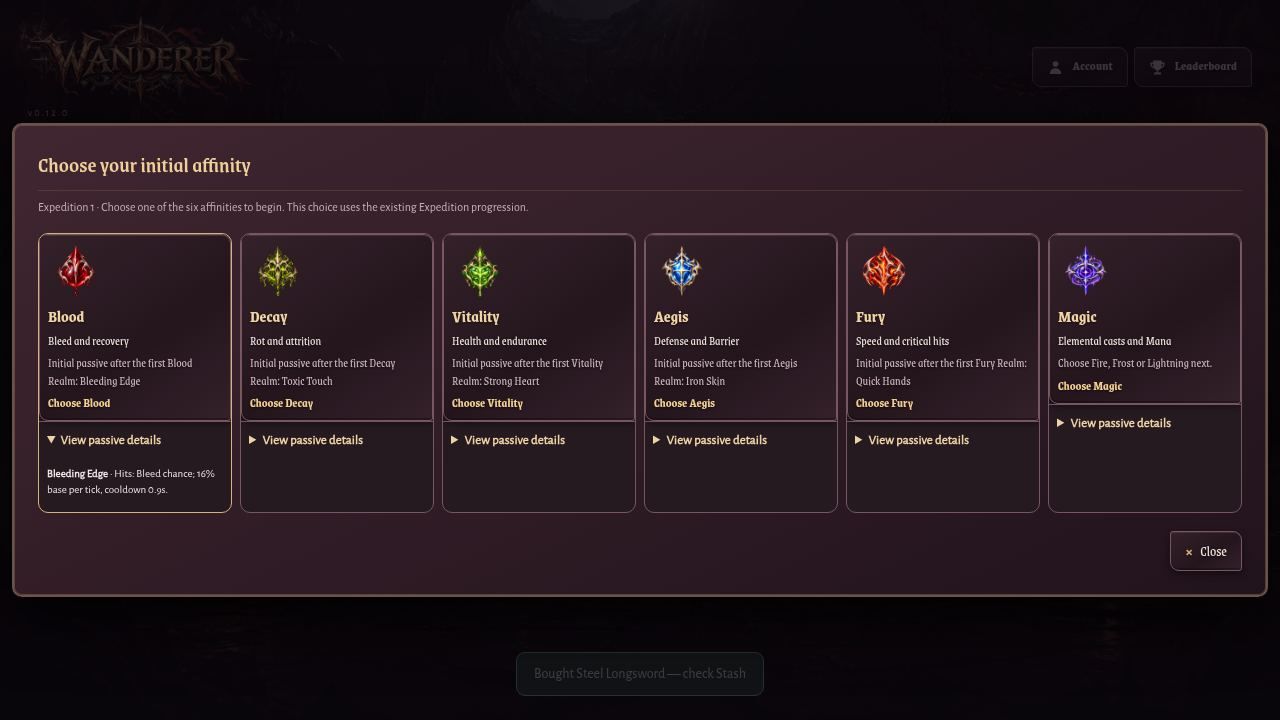
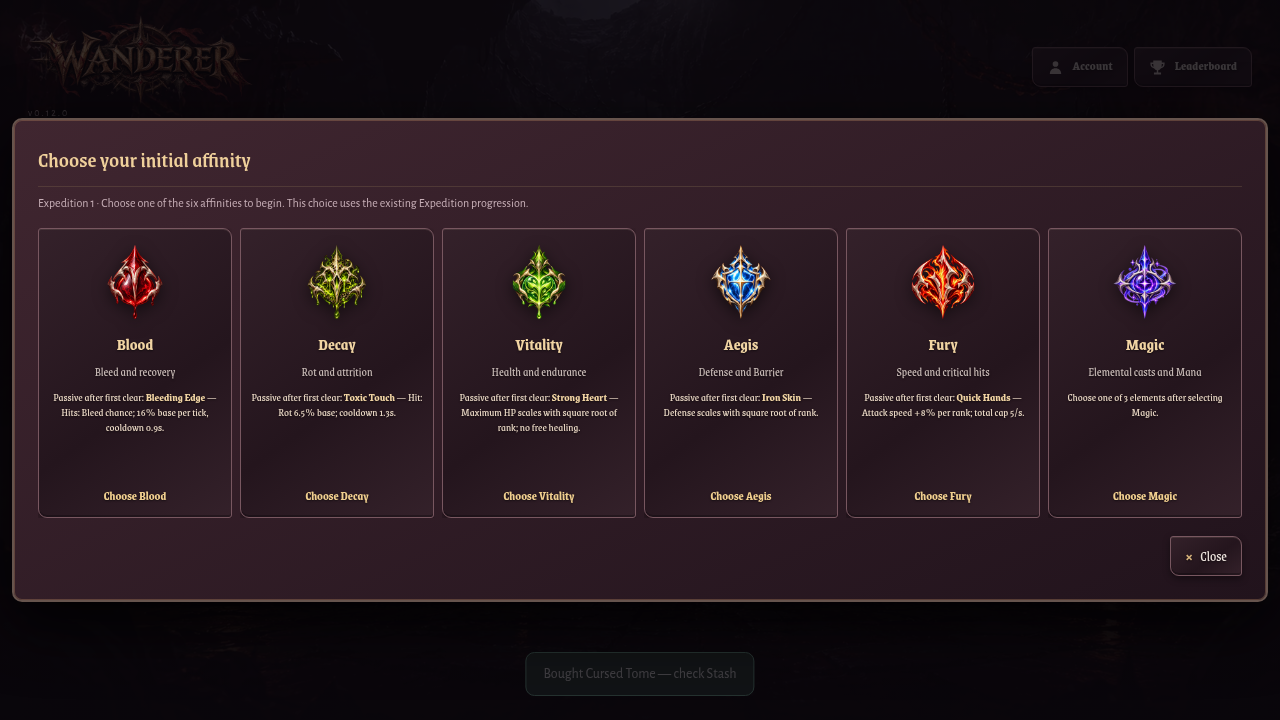
Polish affinity and Magic selection dialogs

diff --git a/online/v012-ui4.css b/online/v012-ui4.css
@@ -104,12 +104,20 @@
 .phase3IntegratedPreview :is(button.phase3Start,#phase2EnterRealm,#phase3OpenInitialAffinity,#phase5ExitResult,dialog button[data-confirm]):focus-visible{outline:2px solid #ebc790;outline-offset:3px}
 .phase3IntegratedPreview dialog.phase3InitialAffinityDialog{width:min(1380px,calc(100vw - 24px));max-width:none;max-height:90dvh;overflow:auto;padding:clamp(14px,2vw,24px)}
 .phase3IntegratedPreview .phase3InitialAffinityDialog .phase3AffinityChoices{display:grid;grid-template-columns:repeat(6,minmax(0,1fr));gap:8px}
-.phase3IntegratedPreview .phase3InitialAffinityDialog .phase3AffinityChoice{min-width:0}
-.phase3IntegratedPreview .phase3InitialAffinityDialog .phase3AffinityChoice>.phase1DraftCard{min-width:0;min-height:205px;padding:8px;gap:5px}
-.phase3IntegratedPreview .phase3InitialAffinityDialog .phase3AffinityChoice .affinityFamilyIcon{width:min(56px,100%);height:56px;object-fit:contain;flex:none}
+.phase3IntegratedPreview .phase3InitialAffinityDialog .phase3AffinityChoice{min-width:0;border:0;border-radius:0;background:transparent}
+.phase3IntegratedPreview .phase3InitialAffinityDialog .phase3AffinityChoice>.phase1DraftCard{display:flex;align-items:center;justify-content:flex-start;box-sizing:border-box;width:100%;height:290px;min-width:0;padding:12px 10px;gap:9px;text-align:center}
+.phase3IntegratedPreview .phase3InitialAffinityDialog .phase3AffinityChoice .affinityFamilyIcon{width:min(82px,100%);height:82px;object-fit:contain;flex:none;filter:drop-shadow(0 4px 8px #0009)}
 .phase3IntegratedPreview .phase3InitialAffinityDialog .phase3AffinityChoice strong{font-size:clamp(14px,1.25vw,19px)}
-.phase3IntegratedPreview .phase3InitialAffinityDialog .phase3AffinityChoice details{padding:4px 8px 8px}
-.phase3IntegratedPreview .phase3InitialAffinityDialog .phase3AffinityChoice details p{font-size:11px}
+.phase3IntegratedPreview .phase3AffinityIdentity{font-size:12px;color:var(--ui4-muted);line-height:1.3}
+.phase3IntegratedPreview .phase3AffinityPassive{flex:1;min-height:0;max-height:100%;overflow-y:auto;overscroll-behavior:contain;scrollbar-width:thin;font-size:11px;line-height:1.4;color:#e7d5c2}
+.phase3IntegratedPreview .phase3AffinityPassive b{color:#f1d4a3;font-weight:700}
+.phase3IntegratedPreview .phase3AffinityAction{margin-top:auto}
+.phase3IntegratedPreview dialog.phase3MagicElementDialog{width:min(760px,calc(100vw - 24px));max-width:none;padding:clamp(14px,2vw,24px)}
+.phase3IntegratedPreview .phase3MagicElementChoices{display:grid;grid-template-columns:repeat(3,minmax(0,1fr));gap:10px;margin-top:14px}
+.phase3IntegratedPreview .phase3MagicElementChoice{display:flex;align-items:center;box-sizing:border-box;width:100%;height:190px;min-width:0;padding:14px 10px;gap:10px;text-align:center}
+.phase3IntegratedPreview .phase3MagicElementChoice .magicChoiceIcon{width:76px;height:76px;filter:drop-shadow(0 4px 8px #0009)}
+.phase3IntegratedPreview .phase3MagicElementChoice strong{font-size:18px;color:#f1d4a3}
+.phase3IntegratedPreview .phase3MagicElementChoice span{font-size:12px;line-height:1.4;color:var(--ui4-muted)}
 .phase3IntegratedPreview .phase3AffinityPending{max-width:760px;margin:clamp(24px,8vh,100px) auto;text-align:center}
 .phase3IntegratedPreview .phase3AffinityPending h1{color:var(--gothic-ivory);font:500 clamp(26px,3vw,42px)/1.1 var(--font-display)}
 .phase3IntegratedPreview .phase3AffinityPending .primary{min-width:min(100%,280px)}
@@ -155,11 +163,18 @@
 @media(max-width:700px){
  .phase3IntegratedPreview dialog.phase3InitialAffinityDialog{width:calc(100vw - 16px);max-height:calc(100dvh - 20px);padding:12px}
  .phase3IntegratedPreview .phase3InitialAffinityDialog .phase3AffinityChoices{grid-template-columns:repeat(3,minmax(0,1fr));gap:6px}
- .phase3IntegratedPreview .phase3InitialAffinityDialog .phase3AffinityChoice>.phase1DraftCard{min-height:178px;padding:6px 4px;font-size:11px}
- .phase3IntegratedPreview .phase3InitialAffinityDialog .phase3AffinityChoice .affinityFamilyIcon{width:42px;height:42px}
+ .phase3IntegratedPreview .phase3InitialAffinityDialog .phase3AffinityChoice>.phase1DraftCard{height:264px;padding:8px 5px;gap:7px;font-size:11px}
+ .phase3IntegratedPreview .phase3InitialAffinityDialog .phase3AffinityChoice .affinityFamilyIcon{width:58px;height:58px}
  .phase3IntegratedPreview .phase3InitialAffinityDialog .phase3AffinityChoice strong{font-size:14px}
- .phase3IntegratedPreview .phase3InitialAffinityDialog .phase3AffinityAction{font-size:10px}
- .phase3IntegratedPreview .phase3InitialAffinityDialog .phase3AffinityChoice details summary{font-size:10px;min-height:30px}
+ .phase3IntegratedPreview .phase3AffinityIdentity{font-size:10px}
+ .phase3IntegratedPreview .phase3AffinityPassive{font-size:10px;line-height:1.3}
+ .phase3IntegratedPreview .phase3AffinityAction{font-size:10px}
+ .phase3IntegratedPreview dialog.phase3MagicElementDialog{width:calc(100vw - 16px);max-height:calc(100dvh - 20px);padding:12px}
+ .phase3IntegratedPreview .phase3MagicElementChoices{gap:6px;margin-top:10px}
+ .phase3IntegratedPreview .phase3MagicElementChoice{height:160px;padding:8px 4px;gap:7px;font-size:11px}
+ .phase3IntegratedPreview .phase3MagicElementChoice .magicChoiceIcon{width:54px;height:54px}
+ .phase3IntegratedPreview .phase3MagicElementChoice strong{font-size:14px}
+ .phase3IntegratedPreview .phase3MagicElementChoice span{font-size:10px;line-height:1.3}
 }
 @media(prefers-reduced-motion:reduce){
  .phase3IntegratedPreview button.primary:not(.tiny):active{transform:none}

diff --git a/index.html b/index.html
@@ -1260,14 +1260,34 @@ function phase3AffinityChoiceMarkup(family){
  const names=WandererV012Expedition.FAMILY_NAMES,starter=family==='magic'?['kindling','deep_winter','overcharge']:[WandererV012Buildcraft.initialId(family)];
  const passives=starter.map(id=>WandererV012Buildcraft.CATALOG.find(p=>p.id===id)).filter(Boolean);
  const identity={blood:'Bleed and recovery',decay:'Rot and attrition',vitality:'Health and endurance',aegis:'Defense and Barrier',fury:'Speed and critical hits',magic:'Elemental casts and Mana'}[family];
- return '<article class="phase3AffinityChoice"><button type="button" class="phase1DraftCard" data-phase2-initial="'+family+'">'+phase2FamilyIcon(family)+'<strong>'+esc(names[family])+'</strong><span class="small">'+identity+'</span><span class="small muted">'+(family==='magic'?'Choose Fire, Frost or Lightning next.':'Initial passive after the first '+esc(names[family])+' Realm: '+esc(passives[0]?.name||''))+'</span><b class="phase3AffinityAction">Choose '+esc(names[family])+'</b></button><details><summary>View passive details</summary>'+passives.map(p=>'<p><b>'+esc(p.name)+'</b> · '+esc(p.description.replace(/\bICD\b/gi,'cooldown'))+'</p>').join('')+'</details></article>';
+ const passiveText=passives.map(p=>'<b>'+esc(p.name)+'</b> — '+esc(p.description.replace(/\bICD\b/gi,'cooldown'))).join(' · ');
+ return '<article class="phase3AffinityChoice"><button type="button" class="phase1DraftCard" data-phase2-initial="'+family+'">'+phase2FamilyIcon(family)+'<strong>'+esc(names[family])+'</strong><span class="phase3AffinityIdentity">'+identity+'</span><span class="phase3AffinityPassive">'+(family==='magic'?'Choose one of 3 elements after selecting Magic.':'Passive after first clear: '+passiveText)+'</span><b class="phase3AffinityAction">Choose '+esc(names[family])+'</b></button></article>';
+}
+function phase3OpenMagicElementDialog(onChoose){
+ const elements=[['fire','Fire','Burn · deals damage over time.'],['frost','Frost','Chill · slows enemy attacks.'],['lightning','Lightning','Shock · four charges trigger a burst.']];
+ const cards=elements.map(([id,name,description])=>'<button type="button" class="phase1DraftCard phase3MagicElementChoice" data-initial-magic-element="'+id+'"><img class="magicChoiceIcon" src="assets/affinities/magic/'+id+'.png" alt="" loading="lazy" decoding="async"><strong>'+name+'</strong><span>'+description+'</span></button>').join('');
+ const dialog=showModal('Choose a Magic element','<p class="small muted">Choose one of Fire, Frost or Lightning. Its element stays fixed for this Expedition.</p><div class="phase3MagicElementChoices">'+cards+'</div>');
+ if(!dialog)return null;dialog.dataset.initialMagicElement='1';dialog.classList.add('phase3MagicElementDialog');
+ dialog.querySelectorAll('[data-initial-magic-element]').forEach(button=>button.onclick=()=>onChoose?.(button.dataset.initialMagicElement,dialog));
+ return dialog;
 }
 function phase3OpenInitialAffinity(g){
  const existing=document.querySelector('dialog[data-initial-affinity]');if(existing)return existing;
  const choices=WandererV012Expedition.FAMILIES.map(phase3AffinityChoiceMarkup).join('');
  const dialog=showModal('Choose your initial affinity','<p class="small muted">Expedition '+g.expedition+' · Choose one of the six affinities to begin. This choice uses the existing Expedition progression.</p><div class="phase1DraftCards phase3AffinityChoices phase3InitialAffinityChoices">'+choices+'</div>');
  if(!dialog)return null;dialog.dataset.initialAffinity='1';dialog.classList.add('phase3InitialAffinityDialog');
- dialog.querySelectorAll('[data-phase2-initial]').forEach(button=>button.onclick=()=>{if(phase2ChooseInitial(button.dataset.phase2Initial)){dialog.close();phase2EnterInitialRealm();}});
+ dialog.querySelectorAll('[data-phase2-initial]').forEach(button=>button.onclick=()=>{
+  const family=button.dataset.phase2Initial;
+  if(family==='magic'){
+   phase3OpenMagicElementDialog((element,elementDialog)=>{
+    if(!phase2ChooseInitial('magic'))return;
+    if(!phase2ChooseElement(element))return;
+    elementDialog.close();dialog.close();phase2EnterInitialRealm();
+   });
+   return;
+  }
+  if(phase2ChooseInitial(family)){dialog.close();phase2EnterInitialRealm();}
+ });
  return dialog;
 }
 
